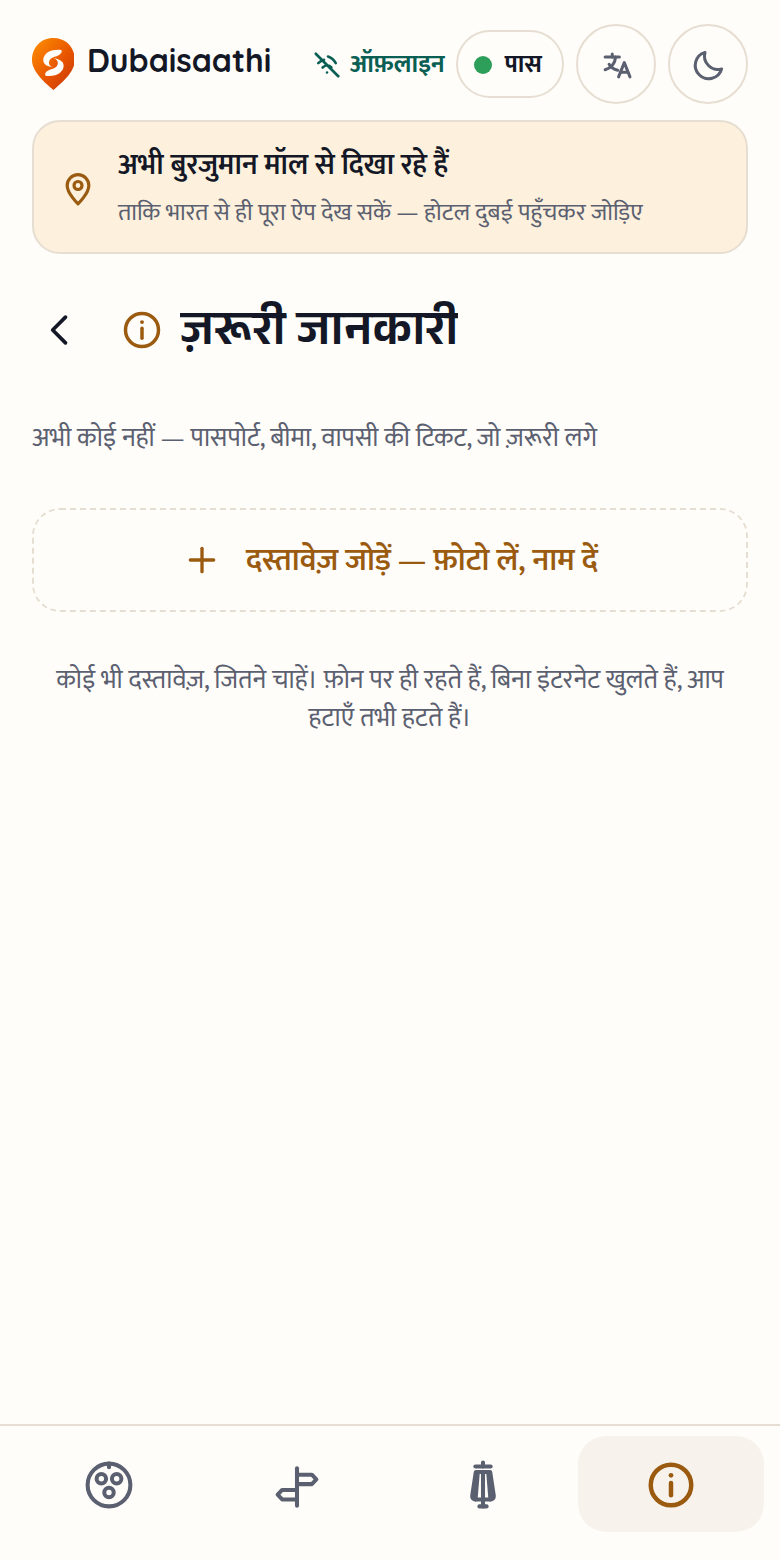
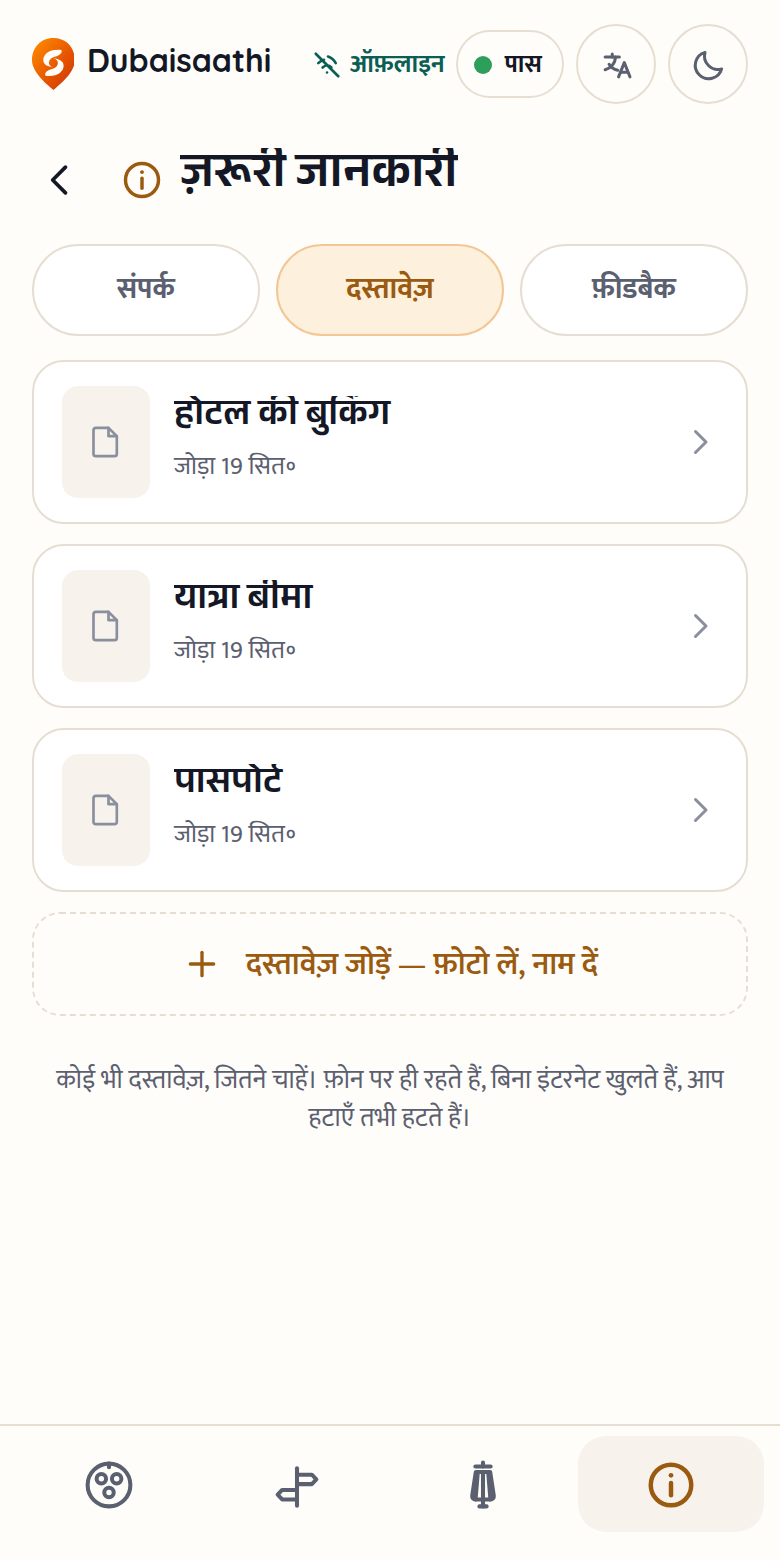
Every phone on the page speaks the page's language
An English reader was looking at seven Hindi screens, three lines under a
claim that the app speaks both. Each screenshot exists twice now and the
pair swaps with everything else on the toggle.

And the documents band showed the empty state — "nothing yet" — directly
under a sentence promising passport, visa, insurance and tickets, as many
as you like. It shows three documents now, because three were added
through the app's own screens before the picture was taken.

All fourteen were captured from a build stamped with a real commit, on a
phone-sized viewport, in Asia/Dubai, with the radio switched off — except
बोलना, which is online only and is photographed as it can actually be used.
No image was edited: what is on the page is what the app draws.

know.png goes. It was in the repository, referenced nowhere, and since the
जाना card now shows the steps screen there is nothing left for it to do.

Claude-Session: https://claude.ai/code/session_01Lp4LRNLPcADgQ1FbX4AiZC

diff --git a/apps/site/index.html b/apps/site/index.html
@@ -232,6 +232,8 @@
           <div class="phone">
             <img
               src="/shots/home.png"
+              data-hi-src="/shots/home.png"
+              data-en-src="/shots/en/home.png"
               alt="Dubaisaathi का होम स्क्रीन: खाना, जाना, जानना"
               width="780"
               height="1560"
@@ -390,6 +392,8 @@
           <div class="phone">
             <img
               src="/shots/options.png"
+              data-hi-src="/shots/options.png"
+              data-en-src="/shots/en/options.png"
               alt="भारत से खोलने पर: बुरजुमान से रास्ते"
               width="780"
               height="1560"
@@ -543,7 +547,14 @@
             middle of it, and the native controls arrive when the film does.
           -->
           <div class="phone phone-video">
-            <video playsinline preload="metadata" poster="/shots/home.png" src="/tour.mp4"></video>
+            <video
+              playsinline
+              preload="metadata"
+              poster="/shots/home.png"
+              data-hi-src="/shots/home.png"
+              data-en-src="/shots/en/home.png"
+              src="/tour.mp4"
+            ></video>
             <button type="button" class="play" id="tour-play">
               <span class="play-ring">
                 <svg viewBox="0 0 24 24" width="30" height="30" aria-hidden="true">
@@ -617,6 +628,8 @@
               <div class="phone">
                 <img
                   src="/shots/food.png"
+                  data-hi-src="/shots/food.png"
+                  data-en-src="/shots/en/food.png"
                   alt="खाना: डोसा की खोज"
                   width="780"
                   height="1560"
@@ -651,6 +664,8 @@
               <div class="phone">
                 <img
                   src="/shots/steps.png"
+                  data-hi-src="/shots/steps.png"
+                  data-en-src="/shots/en/steps.png"
                   alt="जाना: कौन सा स्टेशन, कौन सी लाइन, किस दिशा में"
                   width="780"
                   height="1560"
@@ -681,6 +696,8 @@
               <div class="phone">
                 <img
                   src="/shots/place.png"
+                  data-hi-src="/shots/place.png"
+                  data-en-src="/shots/en/place.png"
                   alt="जानना: बुर्ज ख़लीफ़ा"
                   width="780"
                   height="1560"
@@ -764,6 +781,8 @@
             <div class="phone">
               <img
                 src="/shots/bolna.png"
+                data-hi-src="/shots/bolna.png"
+                data-en-src="/shots/en/bolna.png"
                 alt="बोलना"
                 width="780"
                 height="1560"
@@ -917,6 +936,8 @@
             <div class="phone phone-sm">
               <img
                 src="/shots/docs.png"
+                data-hi-src="/shots/docs.png"
+                data-en-src="/shots/en/docs.png"
                 alt="दस्तावेज़"
                 width="780"
                 height="1560"

diff --git a/apps/site/site.js b/apps/site/site.js
@@ -45,6 +45,17 @@
         lang === 'hi' ? field.dataset.hiLabel : field.dataset.enLabel,
       );
     }
+    /*
+     * The phones on this page are photographs of the app, and the app has two catalogues. An
+     * English reader was looking at seven Hindi screens, three lines under a claim that the app
+     * speaks both — so each shot exists twice and the pair swaps here with everything else.
+     */
+    for (const shot of document.querySelectorAll('[data-en-src]')) {
+      const wanted = lang === 'hi' ? shot.dataset.hiSrc : shot.dataset.enSrc;
+      if (shot.tagName === 'VIDEO') shot.setAttribute('poster', wanted);
+      else if (shot.getAttribute('src') !== wanted) shot.setAttribute('src', wanted);
+    }
+
     said(saidState);
     const share = document.getElementById('share-wa');
     if (share) {
